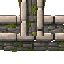
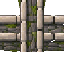
стена ужас!

diff --git a/tools/generate_wall_sprites.go b/tools/generate_wall_sprites.go
@@ -125,24 +125,27 @@ func writeFrame(root, name string, out image.Image) {
 	}
 }
 
-// composeWall makes a corner, T or cross from 64px halves of the same
-// normalised straight sprites. The four-pixel overlap removes a transparent
-// seam while preserving the visible stone texture on both arms.
+// composeWall makes a corner, T or cross from the same normalised straight
+// sprites. Straight-wall artwork is perspective-biased: its horizontal band
+// sits left of the tile centre while the vertical band sits above it. A 32px
+// split therefore leaves an empty notch in every corner. The intentionally
+// wide 12px joins overlap the visible masonry bands, producing one solid
+// stone turn without changing the straight runs.
 func composeWall(horizontal, vertical *image.NRGBA, module wallModule) *image.NRGBA {
 	out := image.NewNRGBA(image.Rect(0, 0, 64, 64))
-	const middle = 32
-	const overlap = 4
+	const joinInset = 12
+	const joinEnd = 64 - joinInset
 	if module.west {
-		copyPart(out, horizontal, image.Rect(0, 0, middle+overlap, 64))
+		copyPart(out, horizontal, image.Rect(0, 0, joinEnd, 64))
 	}
 	if module.east {
-		copyPart(out, horizontal, image.Rect(middle-overlap, 0, 64, 64))
+		copyPart(out, horizontal, image.Rect(joinInset, 0, 64, 64))
 	}
 	if module.north {
-		copyPart(out, vertical, image.Rect(0, 0, 64, middle+overlap))
+		copyPart(out, vertical, image.Rect(0, 0, 64, joinEnd))
 	}
 	if module.south {
-		copyPart(out, vertical, image.Rect(0, middle-overlap, 64, 64))
+		copyPart(out, vertical, image.Rect(0, joinInset, 64, 64))
 	}
 	return out
 }
